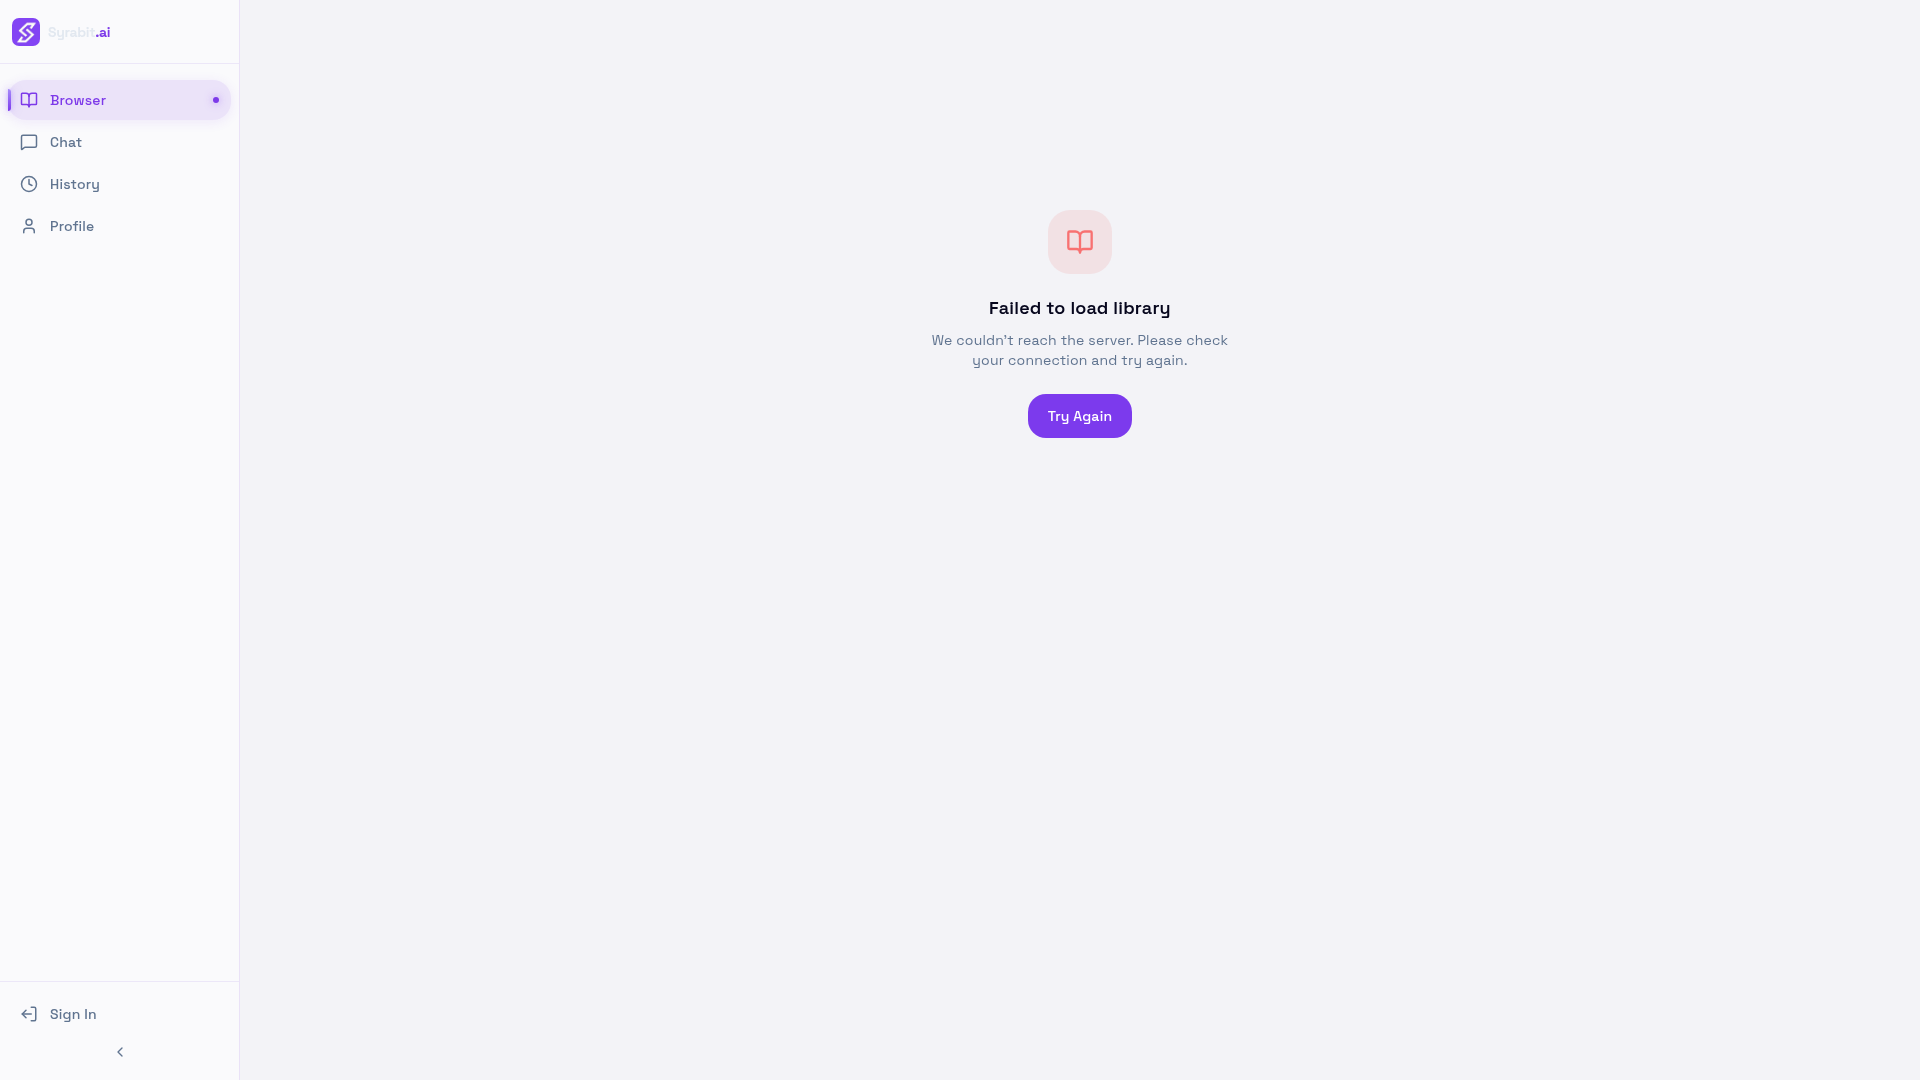
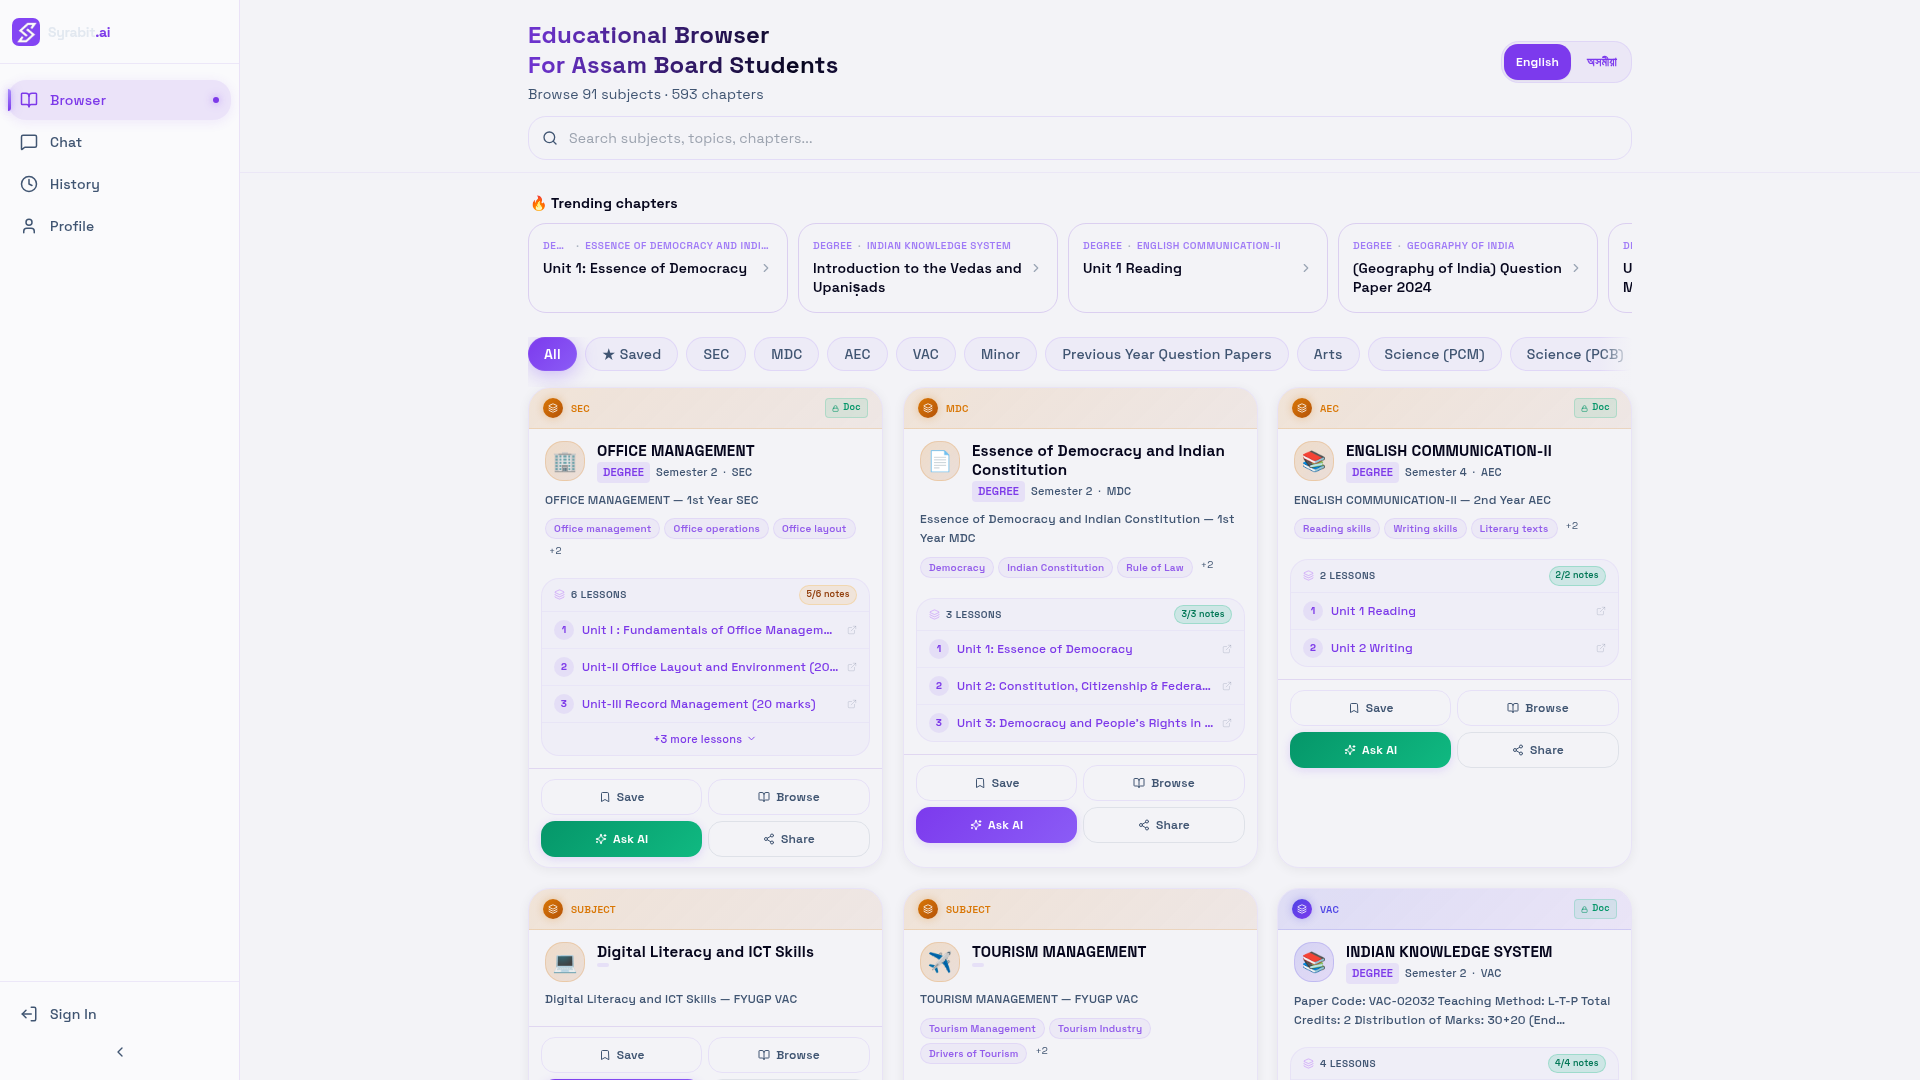
Fix browser warning for preloaded library content
Add `crossorigin="use-credentials"` to the preload link in vite.config.js to resolve a request mode mismatch warning in the browser console.

Replit-Commit-Author: Agent
Replit-Commit-Session-Id: 4ab08519-be40-49ce-8fc9-4b9fb391dc42
Replit-Commit-Checkpoint-Type: full_checkpoint
Replit-Commit-Event-Id: a54db72d-a1dc-4e5e-b96a-c117dadd8980
Replit-Commit-Screenshot-Url: https://storage.googleapis.com/screenshot-production-us-central1/f5641b56-9215-49ab-9946-ebb50a2f75a2/4ab08519-be40-49ce-8fc9-4b9fb391dc42/Qzw94iN
Replit-Helium-Checkpoint-Created: true

diff --git a/artifacts/syrabit/vite.config.js b/artifacts/syrabit/vite.config.js
@@ -565,9 +565,9 @@ function backendPreconnectPlugin() {
           : '';
         // Always inject the library-bundle preload using a relative URL so it
         // goes through the Vite proxy in dev and the CDN edge in production.
-        // No crossOrigin attr: same-origin relative URL uses credentials:same-origin
-        // which matches the actual fetch() so the browser reuses the preloaded response.
-        const preloadScript = `<script>(function(){if(/^\\/library(\\/|$)/.test(location.pathname)){var l=document.createElement('link');l.rel='preload';l.as='fetch';l.href='/api/content/library-bundle?slim=1';document.head.appendChild(l);}})();</script>`;
+        // crossOrigin='use-credentials' matches fetch({ credentials:'include' })
+        // so the browser can reuse the preloaded response (fixes mode-mismatch warning).
+        const preloadScript = `<script>(function(){if(/^\\/library(\\/|$)/.test(location.pathname)){var l=document.createElement('link');l.rel='preload';l.as='fetch';l.crossOrigin='use-credentials';l.href='/api/content/library-bundle?slim=1';document.head.appendChild(l);}})();</script>`;
         const tags = [preconnectTags, preloadScript].filter(Boolean).join('\n    ');
         return html.replace('<!--BACKEND_PRECONNECT-->', tags);
       } catch {